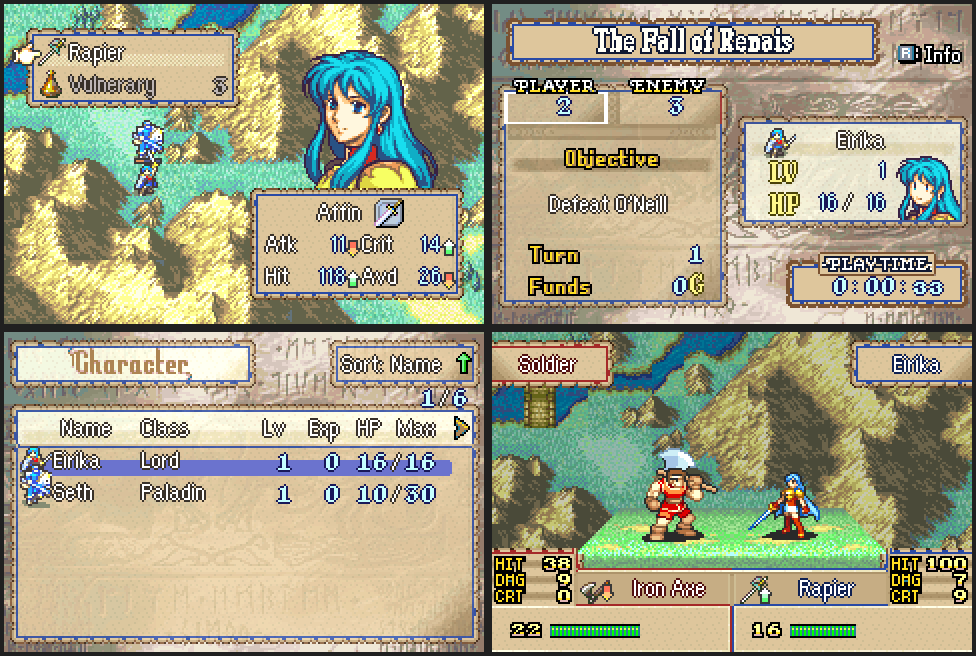
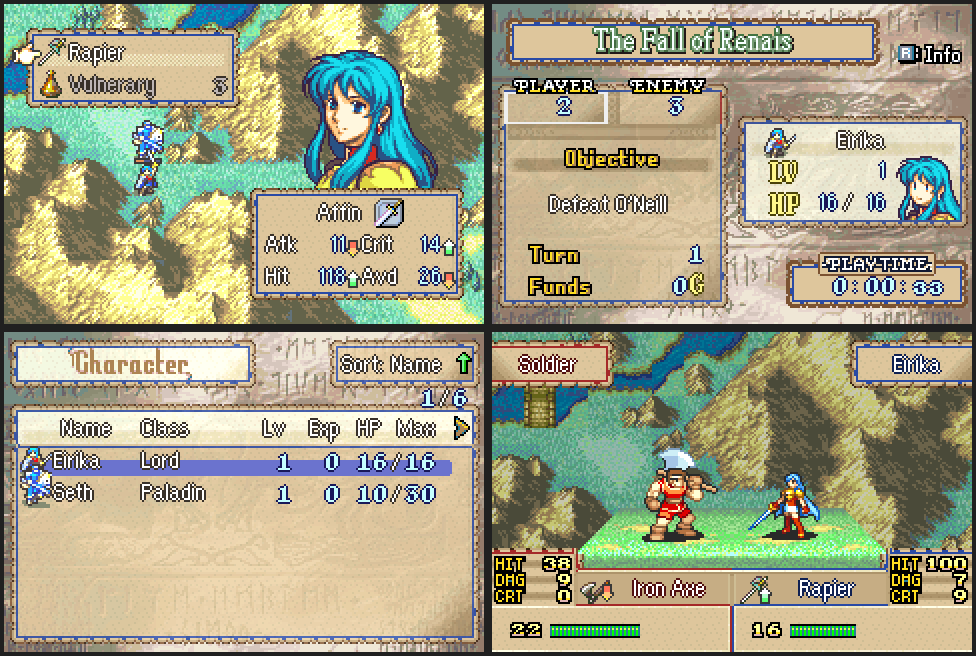
Restore vanilla colours to the Parchment chapter title
Parchment's sChapterTitlePal entry is NULL again, and the
OutlineChapterTitle pass that only it used is removed.

Claude-Session: https://claude.ai/code/session_01Tw4Msv6aWGsnaGTgRodNJ7

diff --git a/Kernel/Wizardry/VeslyUI/C_Code.c b/Kernel/Wizardry/VeslyUI/C_Code.c
@@ -1692,8 +1692,8 @@ static const void * sPlayStatusPal[] = {
  * Vanilla's chapter title palette (OBJ palette 3) with entries 1-6, the
  * letters, recoloured: cream and brown for wood, white and cyan for tech,
  * gold for royal, white and amber in lead for glass, white in black for paper,
- * white and aqua in deep water for ocean, white and leaf green for forest,
- * white in navy for parchment.
+ * white and aqua in deep water for ocean, white and leaf green for forest.
+ * Parchment keeps vanilla's.
  */
 static const u16 sChapterTitlePalWood[16] = {
     0x520E, 0x7BFF, 0x639E, 0x4B1B, 0x1D91, 0x08A9, 0x0444, 0x0000,
@@ -1730,16 +1730,6 @@ static const u16 sChapterTitlePalForest[16] = {
     0x0C64, 0x21A8, 0x25CA, 0x2E0C, 0x364D, 0x3E6F, 0x42B1, 0x4AD3,
 };
 
-/*
- * Parchment letters its chapter title like the game's own text: a flat white
- * face (1-4, 10-12, 14, 15) in a navy outline (5), drop shadow (8) and
- * in-between shades (9, 13), which keep the strokes apart. OutlineChapterTitle
- * edges the few stroke ends the font leaves without an outline.
- */
-static const u16 sChapterTitlePalParchment[16] = {
-    0x520E, 0x7BFF, 0x7BFF, 0x7BFF, 0x7BFF, 0x1862, 0x1862, 0x0000,
-    0x1862, 0x1862, 0x7BFF, 0x7BFF, 0x7BFF, 0x1862, 0x7BFF, 0x7BFF,
-};
 
 static const u16 * const sChapterTitlePal[] = {
 
@@ -1754,7 +1744,7 @@ static const u16 * const sChapterTitlePal[] = {
     sChapterTitlePalPaper, // paper
     sChapterTitlePalOcean, // ocean
     sChapterTitlePalForest, // forest
-    sChapterTitlePalParchment, // parchment
+    NULL, // parchment: vanilla colours
 };
 
 LYN_REPLACE_CHECK(ChapterStatus_ShowAllLayers);
@@ -1772,60 +1762,6 @@ void ChapterStatus_ShowAllLayers(void)
     SetDispEnable(1, 1, 1, 1, 1);
 }
 
-/*
- * The chapter name sprite: 24 tiles wide and 2 tall from OBJ tile 0x380 (2D
- * mapping, so its second row starts 0x20 tiles on). Its font gives most
- * letters an outline (5) or drop shadow (8), but leaves a few stroke ends
- * edged in the face's shade (4). For parchment's flat white letters, every
- * face pixel that touches the backdrop becomes outline. Turning face into
- * outline never changes which pixels are backdrop, so this works in place.
- * VRAM only takes 16-bit writes, so pixels are reached 4 at a time.
- */
-#define CHAPTER_TITLE_CHR 0x380
-#define CHAPTER_TITLE_W   (24 * 8)
-#define CHAPTER_TITLE_H   16
-#define CHAPTER_TITLE_FACE 0xDC1E /* palette entries 1-4, 10-12, 14, 15 */
-
-static u16 * ChapterTitleUnit(int x, int y)
-{
-    u16 * tile = OBJ_CHR_ADDR(CHAPTER_TITLE_CHR + (y >> 3) * 0x20 + (x >> 3));
-
-    return tile + (y & 7) * 2 + ((x & 7) >> 2);
-}
-
-static int ChapterTitlePixel(int x, int y)
-{
-    if (x < 0 || y < 0 || x >= CHAPTER_TITLE_W || y >= CHAPTER_TITLE_H)
-        return 0;
-
-    return (*ChapterTitleUnit(x, y) >> ((x & 3) * 4)) & 0xF;
-}
-
-static void OutlineChapterTitle(void)
-{
-    int x, y;
-
-    for (y = 0; y < CHAPTER_TITLE_H; y++)
-    {
-        for (x = 0; x < CHAPTER_TITLE_W; x++)
-        {
-            u16 * unit;
-            int shift;
-
-            if (!(CHAPTER_TITLE_FACE & (1 << ChapterTitlePixel(x, y))))
-                continue;
-
-            if (ChapterTitlePixel(x - 1, y) && ChapterTitlePixel(x + 1, y) &&
-                ChapterTitlePixel(x, y - 1) && ChapterTitlePixel(x, y + 1))
-                continue;
-
-            unit = ChapterTitleUnit(x, y);
-            shift = (x & 3) * 4;
-            *unit = (*unit & ~(0xF << shift)) | (5 << shift);
-        }
-    }
-}
-
 /* Loads the chapter name sprite; the generated styles recolour its green letter ramp. */
 LYN_REPLACE_CHECK(StatusScreenSpriteDraw_Init);
 void StatusScreenSpriteDraw_Init(struct ChapterStatusProc * proc)
@@ -1841,9 +1777,6 @@ void StatusScreenSpriteDraw_Init(struct ChapterStatusProc * proc)
 
     sub_80895B4(0x80, 0x13);
     PutChapterTitleGfx(0xB80, GetChapterTitleWM(&gPlaySt));
-
-    if (GetUI_id() == 11)
-        OutlineChapterTitle();
 
     if (sChapterTitlePal[GetUI_id()] != NULL)
         ApplyPalette(sChapterTitlePal[GetUI_id()], 0x13);

diff --git a/Documentation/Features/VeslyUIStyles.md b/Documentation/Features/VeslyUIStyles.md
@@ -158,7 +158,7 @@ Turn it on with `ENUT 0xB2` in an event (or `SetFlag(0xB2)` in C); it is `Forest
 
 ### 📜 Parchment
 
-A Parchment & Ink look. Each window is a sheet of aged paper with a faint fibre speckle. Its outer edge is the sheet's own: deckled, nibbled in and torn here and there, browning outward to a scorched rim with flecks of char. Just inside it runs a hand-drawn ink line that swells to 2 pixels here and there like a pen, so no two edges match. The corners are worn round, scorched a little darker where the sheet turns. The faction shows only in the ink colour; light panels are fresh cream paper. On the status screen the chapter name and PLAY TIME are lettered like the game's own text, white in a navy outline, so they stay easy to read on the paper.
+A Parchment & Ink look. Each window is a sheet of aged paper with a faint fibre speckle. Its outer edge is the sheet's own: deckled, nibbled in and torn here and there, browning outward to a scorched rim with flecks of char. Just inside it runs a hand-drawn ink line that swells to 2 pixels here and there like a pen, so no two edges match. The corners are worn round, scorched a little darker where the sheet turns. The faction shows only in the ink colour; light panels are fresh cream paper. On the status screen the chapter name keeps vanilla's colours, and PLAY TIME is lettered like the game's own text, white in a navy outline.
 
 Turn it on with `ENUT 0xB3` in an event (or `SetFlag(0xB3)` in C); it is `ParchmentStyleFlag`, style ID 11.
 
